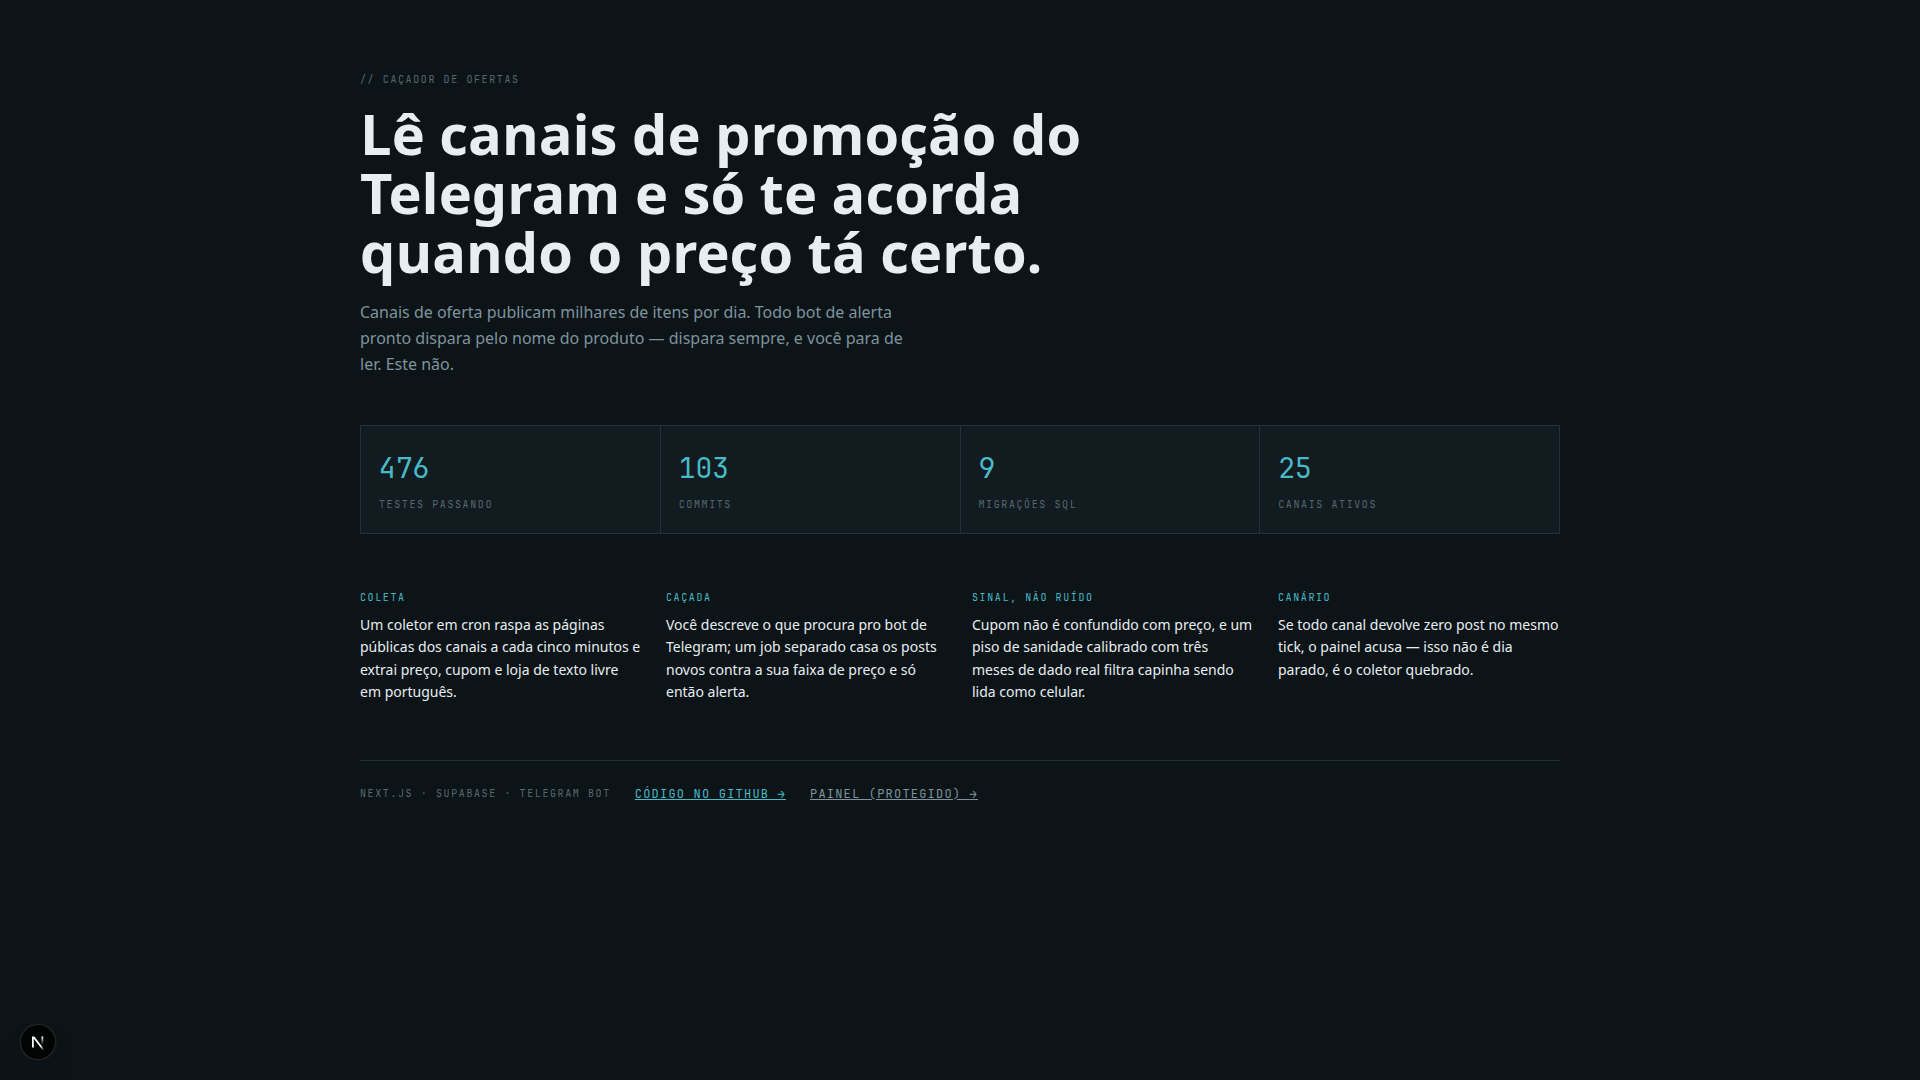
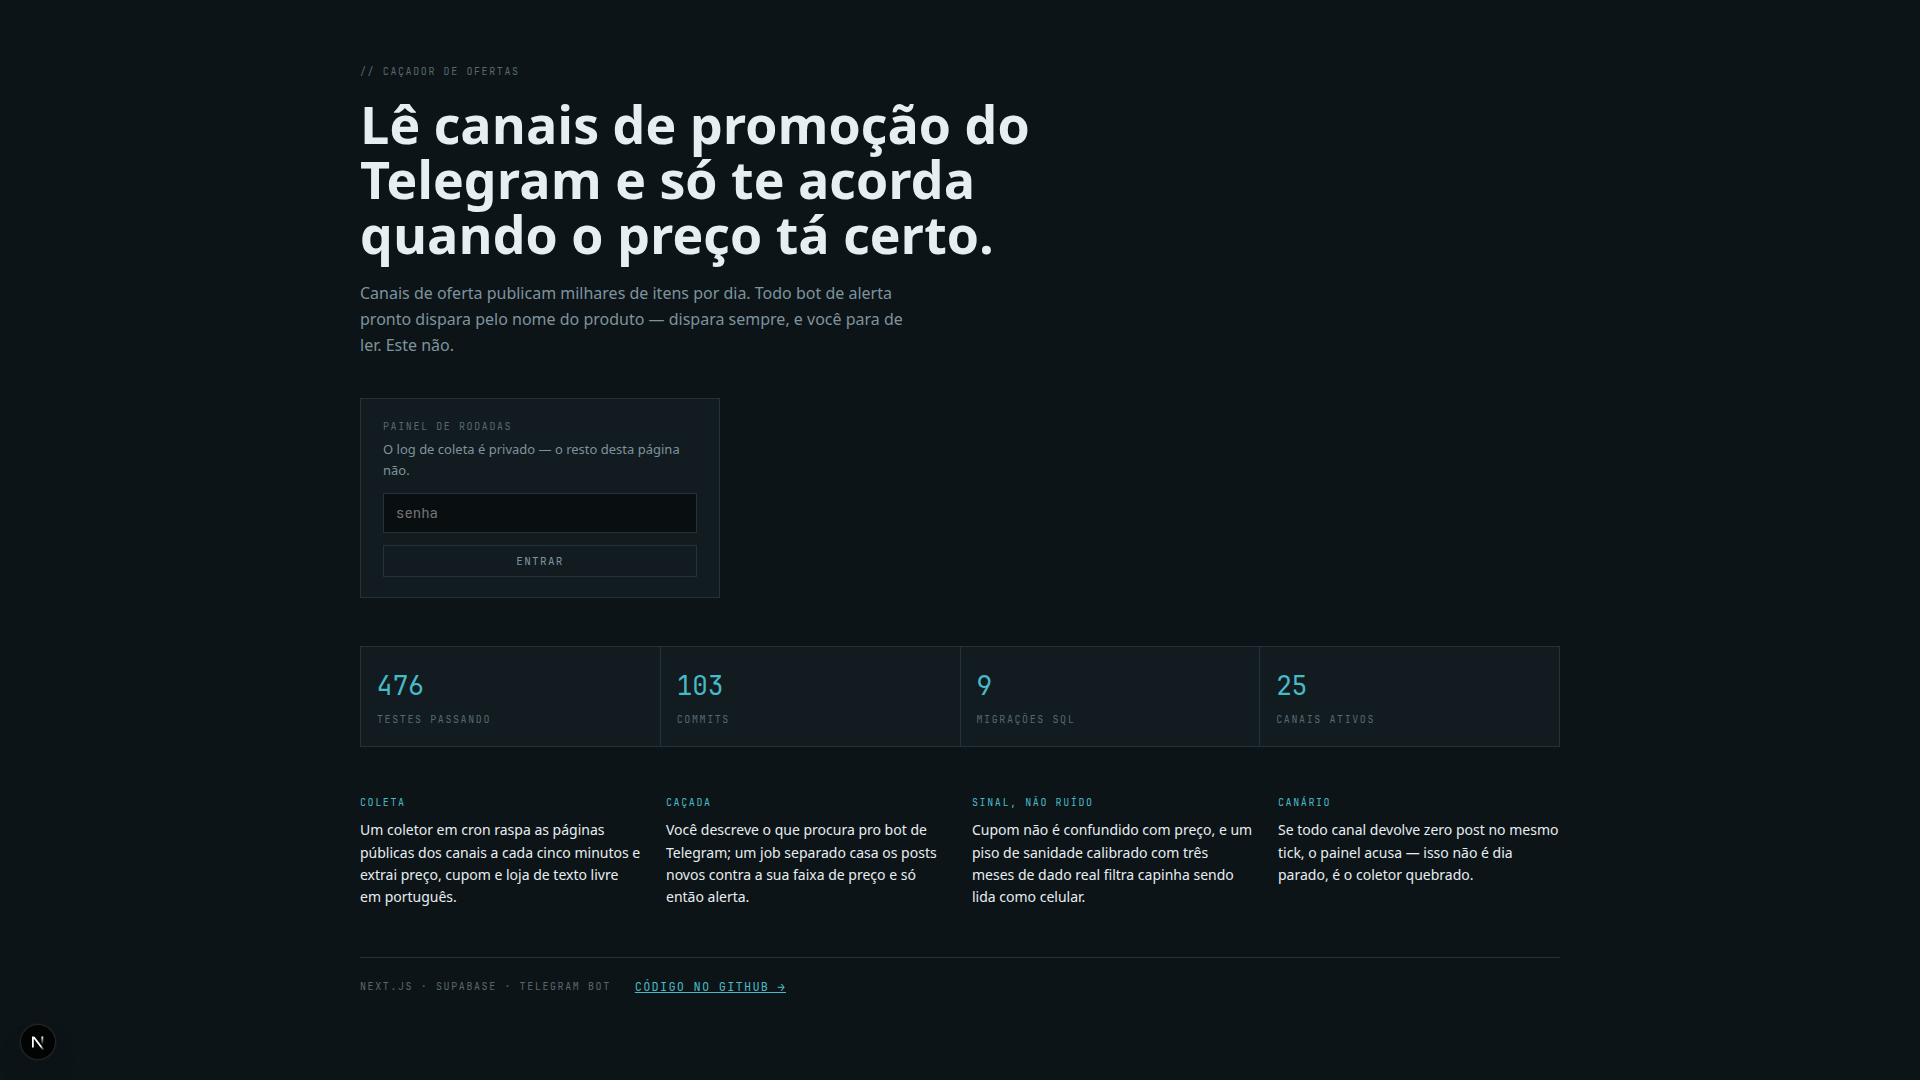
feat: liga o botao de abrir app do cobraflow e do zaptutor
Os dois sairam no ar. O cacador ganhou preview novo: a screenshot antiga
era a /sobre, mas quem chega pelo dominio cai na /login, que agora
apresenta o projeto — melhor mostrar a tela que o visitante encontra.

diff --git a/src/lib/content/systems.ts b/src/lib/content/systems.ts
@@ -90,6 +90,7 @@ export const systems: SystemItem[] = [
     },
     tech: "Chrome MV3 · JavaScript",
     repo: "https://github.com/JaoVile/zaptutor",
+    live: "https://zaptutor.vercel.app",
     image: "/projects/zaptutor.png",
   },
   {
@@ -100,6 +101,7 @@ export const systems: SystemItem[] = [
     },
     tech: "Next.js 16 · SSE · WhatsApp Cloud API",
     repo: null,
+    live: "https://cobraflow-chi.vercel.app",
     image: "/projects/cobraflow.png",
   },
 ];
